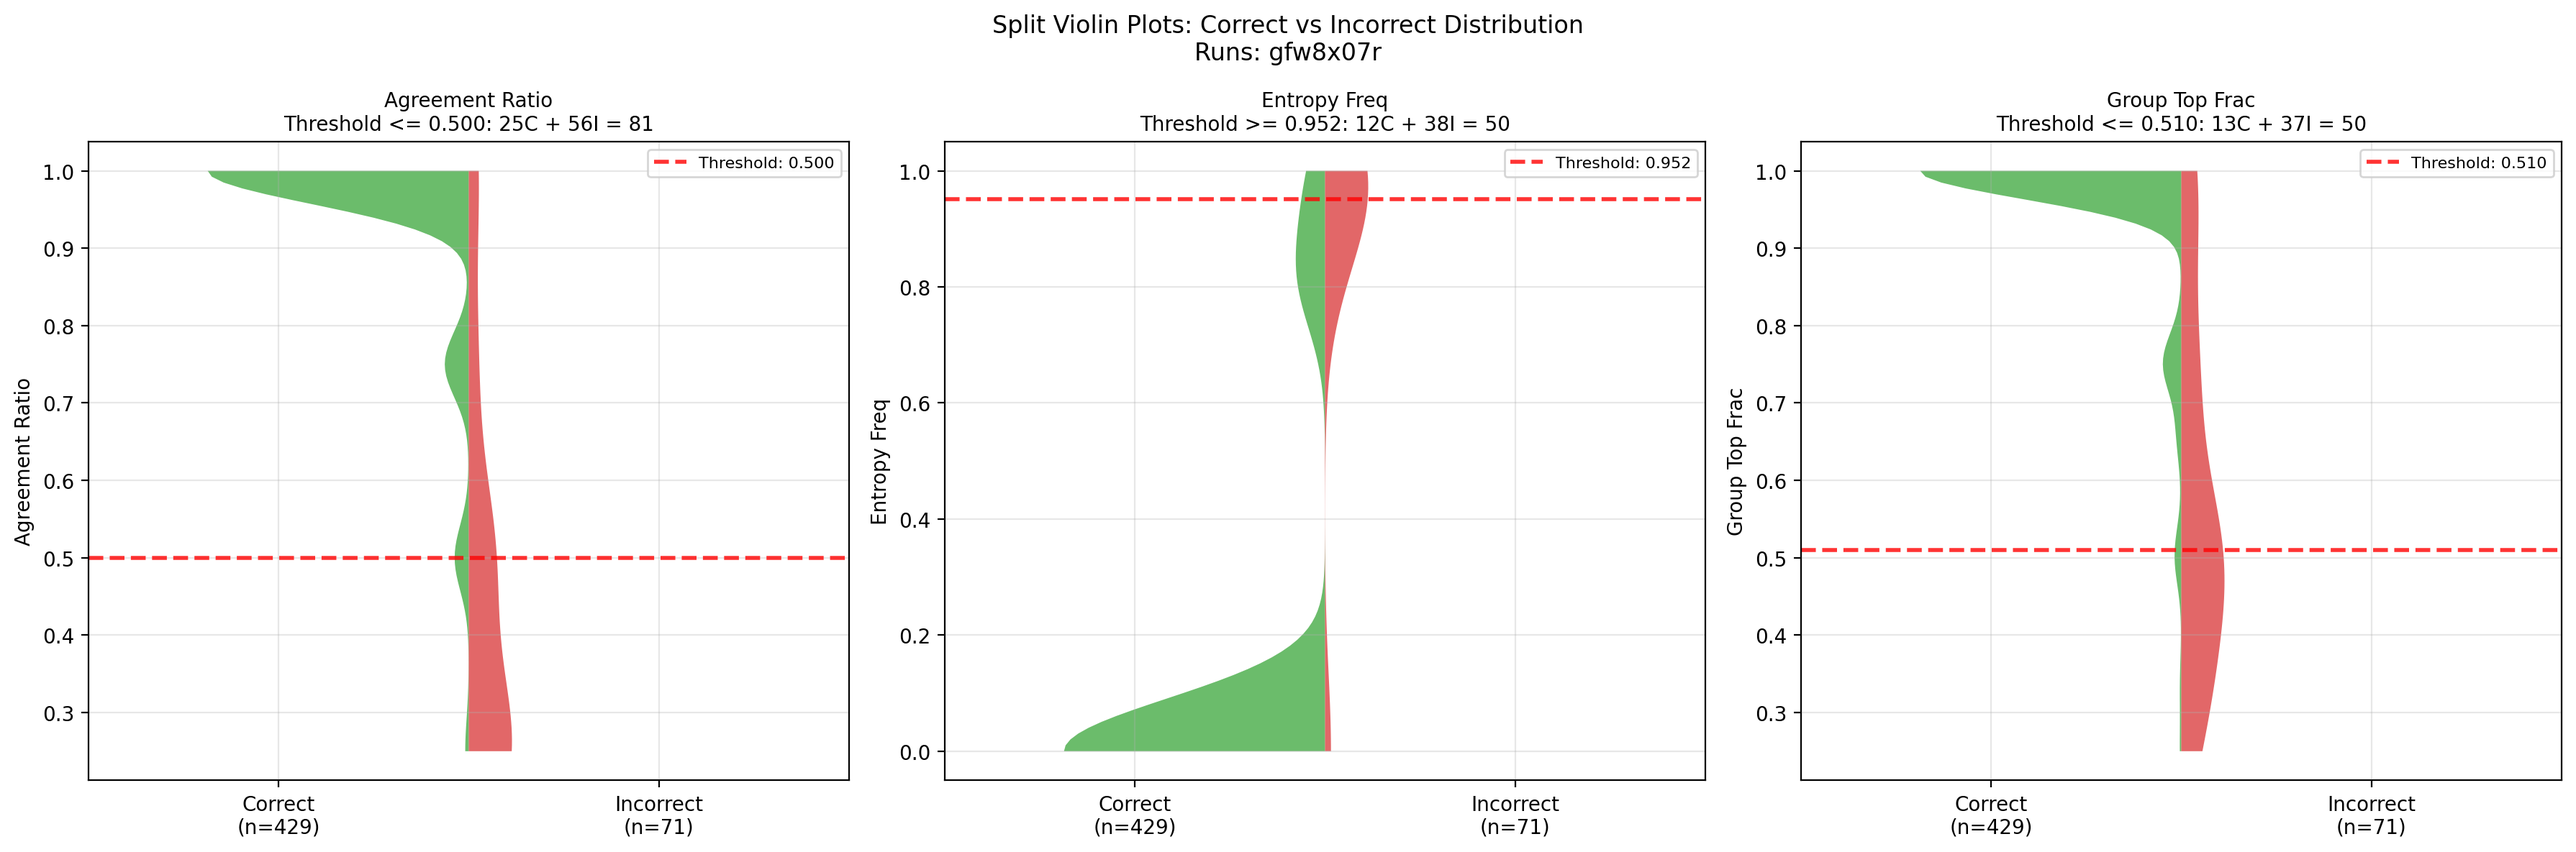
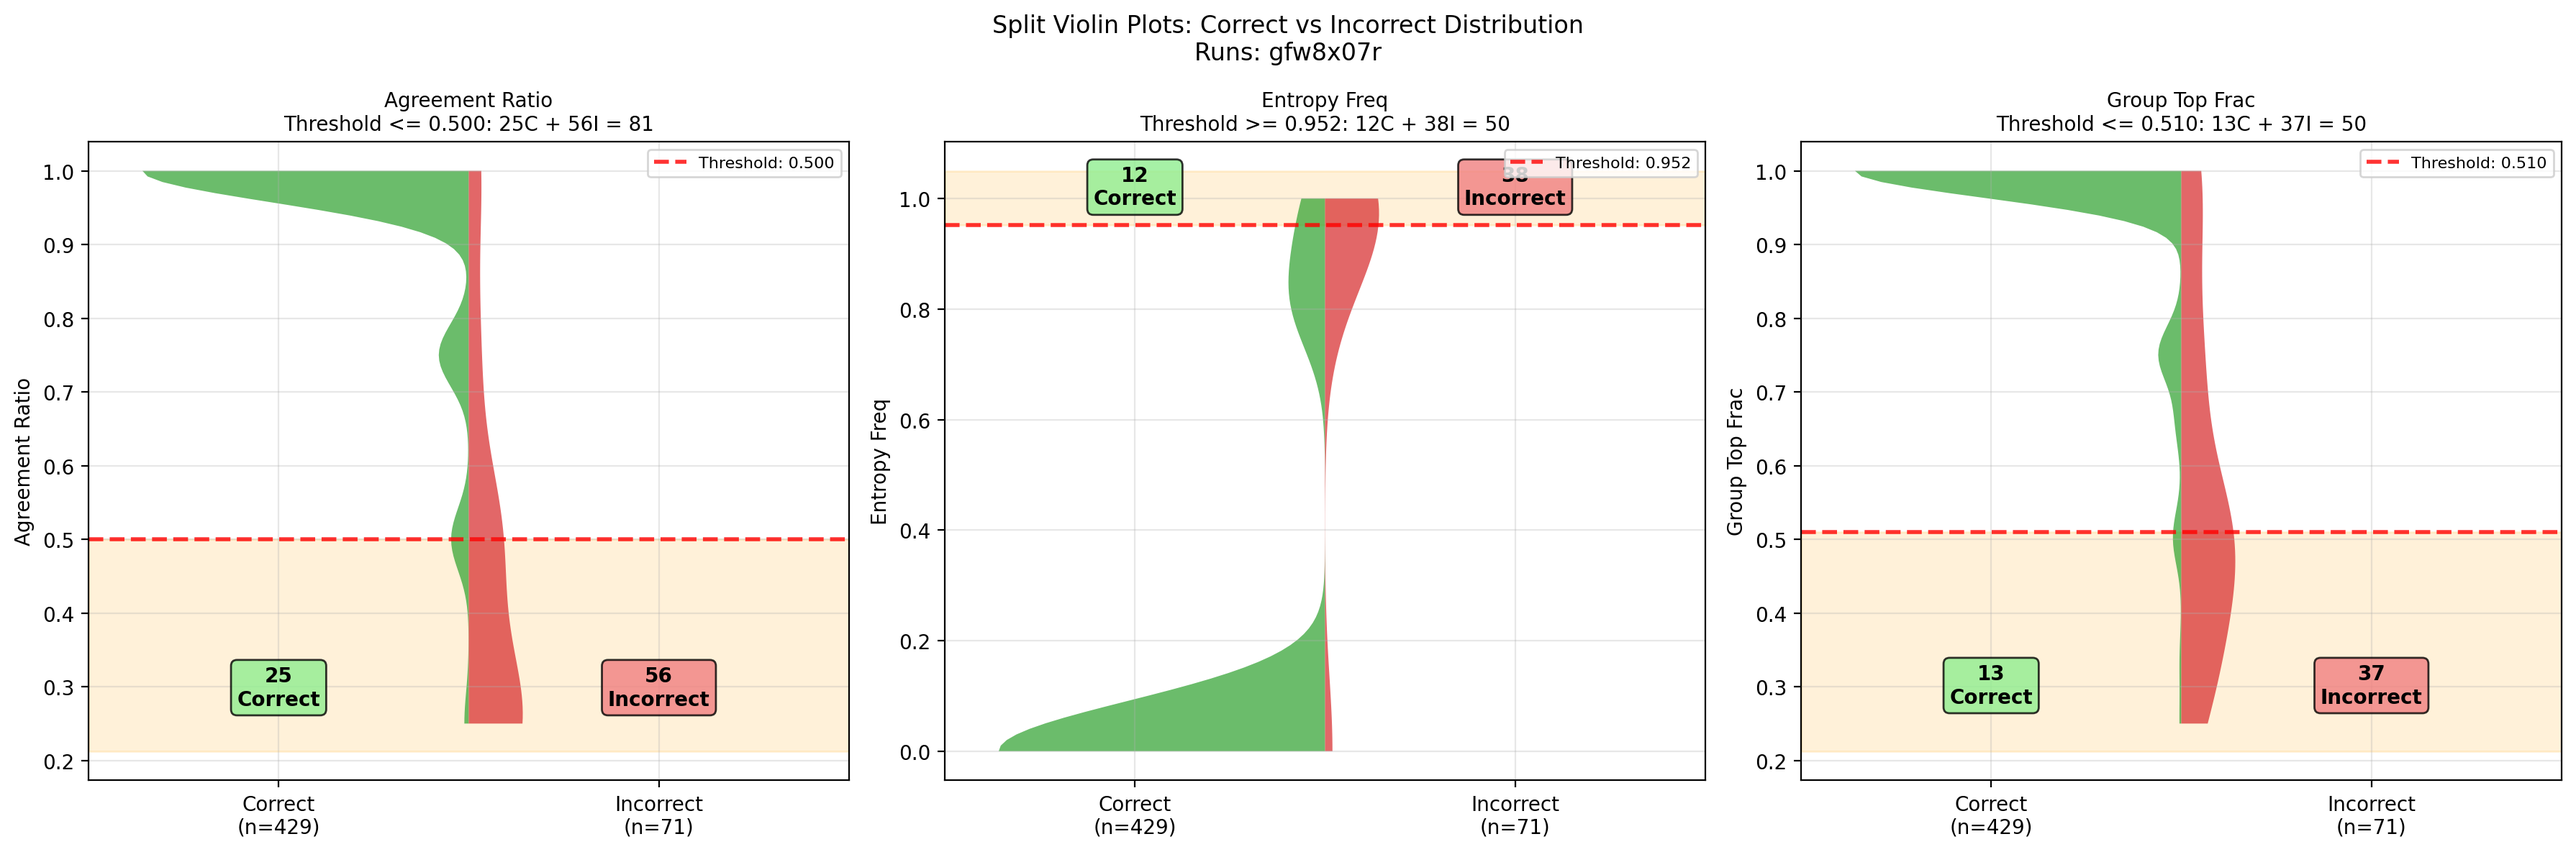
visuals

diff --git a/scripts/selection_2.py b/scripts/selection_2.py
@@ -309,8 +309,9 @@ def create_split_violin_plots(
         total_count = correct_count + incorrect_count
 
         # Scale widths proportionally (max width = 0.8)
-        correct_width = 0.8 * (correct_count / total_count)
-        incorrect_width = 0.8 * (incorrect_count / total_count)
+        max_width = 1.0
+        correct_width = max_width * (correct_count / total_count)
+        incorrect_width = max_width * (incorrect_count / total_count)
 
         # Create violin plot for correct answers (left side)
         parts_correct = ax.violinplot(
@@ -364,8 +365,28 @@ def create_split_violin_plots(
             if key in parts_incorrect:
                 parts_incorrect[key].set_visible(False)
 
-        # Add threshold line
+        # Add threshold line and selection visualization
         threshold_value = thresholds[metric]
+        analysis = correctness_analysis[metric]
+
+        # Determine selection region based on metric type
+        if metric in ["agreement_ratio", "group_top_frac"]:
+            # For these metrics, we select values <= threshold (bottom region)
+            y_min = ax.get_ylim()[0] if hasattr(ax, "get_ylim") else 0
+            y_fill_min = y_min
+            y_fill_max = threshold_value
+            selection_text = f"Selected\n≤ {threshold_value:.3f}"
+        else:  # entropy_freq
+            # For entropy, we select values >= threshold (top region)
+            y_max = ax.get_ylim()[1] if hasattr(ax, "get_ylim") else 1
+            y_fill_min = threshold_value
+            y_fill_max = y_max if y_max > threshold_value else threshold_value + 0.1
+            selection_text = f"Selected\n≥ {threshold_value:.3f}"
+
+        # Add shaded region to show what's being selected
+        ax.axhspan(y_fill_min, y_fill_max, alpha=0.15, color="orange", zorder=0)
+
+        # Add threshold line
         ax.axhline(
             y=threshold_value,
             color="red",
@@ -373,6 +394,39 @@ def create_split_violin_plots(
             linewidth=2,
             alpha=0.8,
             label=f"Threshold: {threshold_value:.3f}",
+        )
+
+        # Add text annotations showing counts in selected region
+        selected_correct = analysis["correct_selected"]
+        selected_incorrect = analysis["incorrect_selected"]
+
+        # Position text in the selected region
+        if metric in ["agreement_ratio", "group_top_frac"]:
+            text_y = y_fill_min + (y_fill_max - y_fill_min) * 0.3
+        else:
+            text_y = y_fill_min + (y_fill_max - y_fill_min) * 0.7
+
+        # Add count annotations
+        ax.text(
+            0.25,
+            text_y,
+            f"{selected_correct}\nCorrect",
+            ha="center",
+            va="center",
+            fontsize=10,
+            fontweight="bold",
+            bbox=dict(boxstyle="round,pad=0.3", facecolor="lightgreen", alpha=0.8),
+        )
+
+        ax.text(
+            0.75,
+            text_y,
+            f"{selected_incorrect}\nIncorrect",
+            ha="center",
+            va="center",
+            fontsize=10,
+            fontweight="bold",
+            bbox=dict(boxstyle="round,pad=0.3", facecolor="lightcoral", alpha=0.8),
         )
 
         # Customize plot
